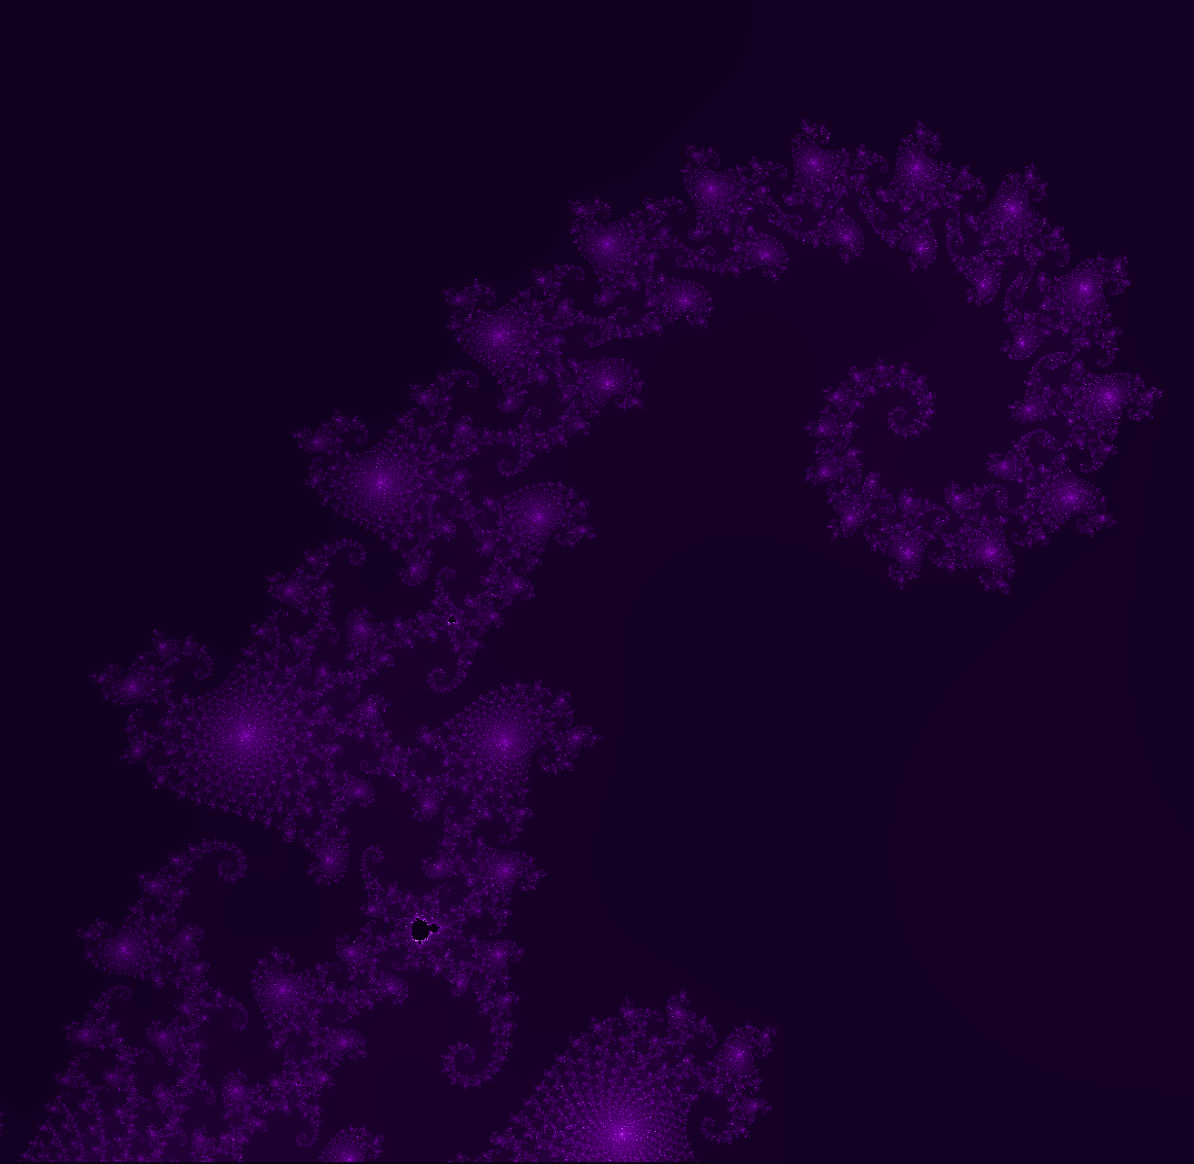
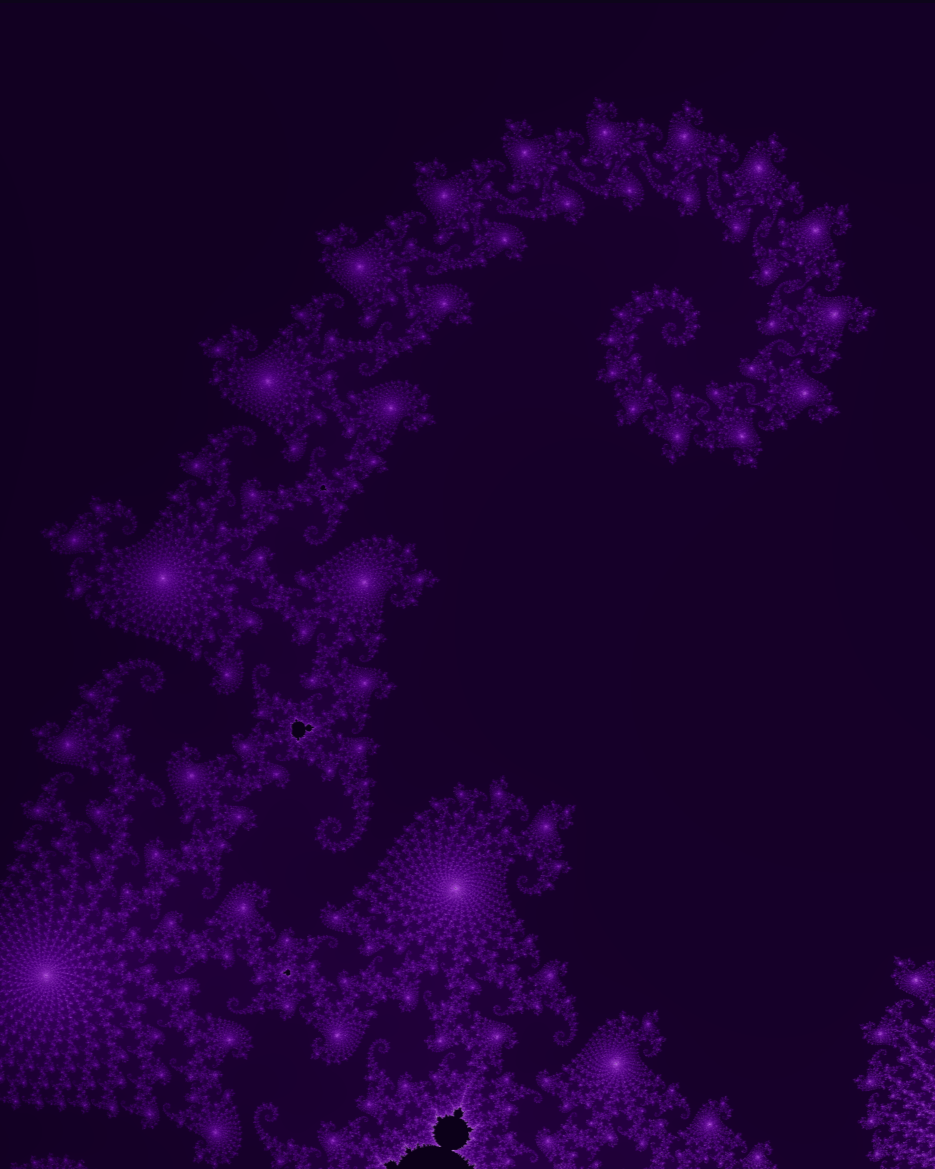
a level, removed unfinished
removed the unfinished sections. change some images for cards to be 5:4 overall. added maths interview page

Changed region(s): [[0.0, 0.0928, 0.9615, 1.0], [0.8995, 0.8041, 1.0, 1.0]]

diff --git a/_alevel/temp copy.py b/_alevel/temp copy.py
@@ -1,41 +1,39 @@
-import cupy as cp
+import numpy as np
 import matplotlib.pyplot as plt
 from matplotlib.colors import LinearSegmentedColormap
 
-# Zoom parameters for seahorse tail
-xmin, xmax = -0.746, -0.742
-ymin, ymax = 0.129, 0.1325
+# Parameters for a tighter zoom directly on the seahorse tail region
+xmin, xmax = -1, 1
+ymin, ymax = -1, 1
 width, height = 1200, 1200
-max_iter = 2000
+max_iter = 1000
 
-# Create grid with cupy
-x = cp.linspace(xmin, xmax, width)
-y = cp.linspace(ymin, ymax, height)
-X, Y = cp.meshgrid(x, y)
+# Create grid of complex numbers
+x = np.linspace(xmin, xmax, width)
+y = np.linspace(ymin, ymax, height)
+X, Y = np.meshgrid(x, y)
 C = X + 1j*Y
-Z = cp.zeros_like(C)
-iterations = cp.zeros(C.shape, dtype=cp.float32)
+Z = np.zeros_like(C)
+M = np.full(C.shape, True, dtype=bool)
+iterations = np.zeros(C.shape, dtype=int)
 
-# Smooth escape time
 for i in range(max_iter):
-    mask = cp.abs(Z) <= 2
-    Z[mask] = Z[mask]**2 + C[mask]
-    newly_diverged = mask & (cp.abs(Z) > 2)
-    iterations[newly_diverged] = i + 1 - cp.log2(cp.log2(cp.abs(Z[newly_diverged])))
+    Z[M] = Z[M]**2 + C[M]
+    diverged = np.abs(Z) > 2
+    diverging_now = diverged & M
+    iterations[diverging_now] = i
+    M[diverging_now] = False
 
-# Transfer back to CPU for plotting
-iterations_np = iterations.get()
-
-# Bright purple colormap for shining effect
-colors = [(0.05, 0.0, 0.1),   # dark purple
-          (0.5, 0.0, 0.7),    # medium bright purple
-          (0.8, 0.3, 1.0),    # bright purple
-          (1.0, 0.7, 1.0)]    # glowing lavender
-cmap = LinearSegmentedColormap.from_list("bright_purple", colors, N=1024)
+# Custom purple colormap (dark → light purple)
+colors = [(0.05, 0.0, 0.1),  # dark purple
+          (0.3, 0.0, 0.5),   # mid purple
+          (0.6, 0.2, 0.8),   # bright purple
+          (0.9, 0.7, 1.0)]   # pale lavender
+cmap = LinearSegmentedColormap.from_list("custom_purple", colors, N=1024)
 
 plt.figure(figsize=(8,8), facecolor=(0.05,0.02,0.1))
-plt.imshow(iterations_np, extent=[xmin, xmax, ymin, ymax], cmap=cmap, origin="lower")
+plt.imshow(iterations, extent=[xmin, xmax, ymin, ymax], cmap=cmap, origin="lower")
 plt.axis("off")
-plt.title("Mandelbrot Set – Seahorse Tail (Bright)", color="white")
-plt.savefig("mandelbrot_seahorse_tail_bright.png", facecolor=(0.05,0.02,0.1), dpi=300, bbox_inches="tight")
+plt.title("Mandelbrot Set – Seahorse Tail (Zoomed)", color="white")
+plt.savefig("mandelbrot_seahorse_tail_zoom.png", facecolor=(0.05,0.02,0.1), dpi=300, bbox_inches="tight")
 plt.show()

diff --git a/_alevel/temp.py b/_alevel/temp.py
@@ -3,10 +3,12 @@ import matplotlib.pyplot as plt
 from matplotlib.colors import LinearSegmentedColormap
 
 # Parameters for a tighter zoom directly on the seahorse tail region
+
+
 xmin, xmax = -0.746, -0.742
-ymin, ymax = 0.129, 0.1325
-width, height = 1200, 1200
-max_iter = 10000
+ymin, ymax = 0.128, 0.1325
+width, height = 2400, 3000
+max_iter = 1000
 
 # Create grid of complex numbers
 x = np.linspace(xmin, xmax, width)

diff --git a/_pages/about.md b/_pages/about.md
@@ -36,8 +36,7 @@ social: true # includes social icons at the bottom of the page
 
 [comment]: <>( Write your biography here. Tell the world about yourself. Link to your favorite [subreddit](http://reddit.com). You can put a picture in, too. The code is already in, just name your picture `prof_pic.jpg` and put it in the `img/` folder. Put your address / P.O. box / other info right below your picture. You can also disable any of these elements by editing `profile` property of the YAML header of your `_pages/about.md`. Edit `_bibliography/papers.bib` and Jekyll will render your [publications page](/al-folio/publications/) automatically. Link to your social media connections, too. This theme is set up to use [Font Awesome icons](https://fontawesome.com/) and [Academicons](https://jpswalsh.github.io/academicons/), like the ones below. Add your Facebook, Twitter, LinkedIn, Google Scholar, or just disable all of them.)
 
-Just a collection of notable projects I've done and a handful of other things.
+Just a collection of notable projects I've done and a handful of resources
 
 <video src="assets\img\TopologyoftheUniverse_crDVDP-HP.V2.mp4" autoplay="autoplay" muted="true" loop="true" playsinline="true" width="100%" ></video>
 
-I'm currently prepping for the UK integration bee.

diff --git a/_alevel/maths_interview.md b/_alevel/maths_interview.md
@@ -1,0 +1,33 @@
+---
+layout: page
+title: Maths Interview
+importance:
+
+img: assets/img/mathsint.png
+
+usemathjax: true
+giscus_comments: true
+
+---
+
+
+Here is a collection of resources on maths interviews.
+
+
+<iframe src="https://drive.google.com/embeddedfolderview?id=1bHjNXYO_hVUqL5YaIkIkIWXogZarN9P-"
+        width="100%" height="600" frameborder="0"
+        style="background: #1e1e1e; filter: invert(0.89) hue-rotate(140deg);"></iframe>
+
+<script>
+  const iframe = document.getElementById('drive-iframe');
+  
+  const observer = new MutationObserver(() => {
+    if (document.body.classList.contains('dark-mode')) {
+      iframe.style.filter = 'invert(1) hue-rotate(180deg) brightness(0.9)';
+    } else {
+      iframe.style.filter = '';
+    }
+  });
+
+  observer.observe(document.body, { attributes: true, attributeFilter: ['class'] });
+</script>

diff --git a/_pages/A-Level.md b/_pages/A-Level.md
@@ -2,7 +2,7 @@
 layout: page
 title: A-Level
 permalink: /alevel/
-description: A collection of courses and things for A-level students
+description: A collection of things for A-level students
 nav: true
 nav_order: 3
 horizontal: false
